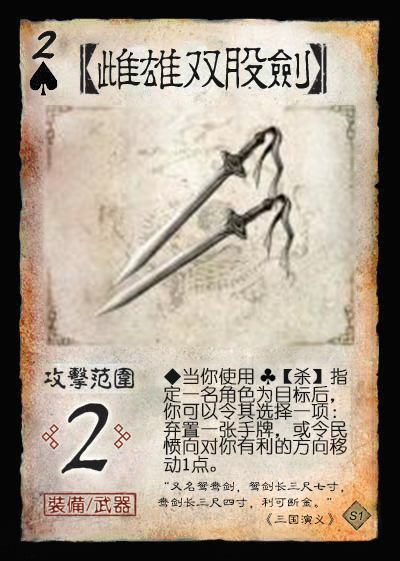
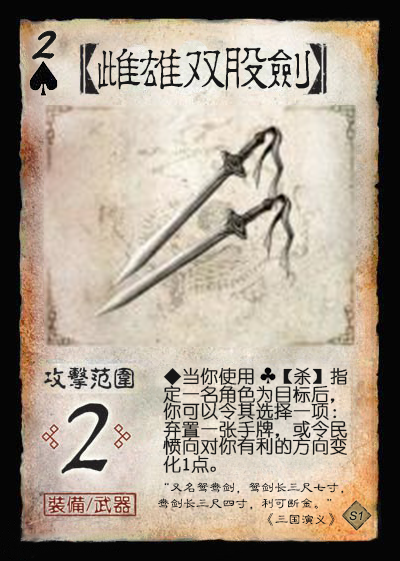
Complete scene1.

diff --git a/SanGuoSha/SGS-RebirthProject/scenes/scene1.md b/SanGuoSha/SGS-RebirthProject/scenes/scene1.md
@@ -7,7 +7,6 @@
 ## 游戏规则
 
 1. 人数：6人
-    1. **TODO**：设计支持其他人数的更多模式
 2. 阵营划分
     1. **黄巾**与**汉廷**两大阵营对抗
 3. 游戏流程
@@ -36,9 +35,8 @@
         1. 每人分发四张起始手牌。
     5. 进行游戏
         1. 从*黄巾主帅*开始，按逆时针方向依次进行回合。黄巾主帅视为1号位玩家，1号位玩家的回合开始时视为新一轮的开始。
-        2. 每轮开始时，*1号位角色*进行**民愤判定**，根据结果增减民愤：♠=+2，♣=+1，♦=0，♥=-1。
-
-            > TODO：民愤增减效果是否需要调整以保持平衡性？
+        2. 每轮开始时，*1号位角色*进行**民愤判定**，根据结果增减民愤：♠=+2，♣=+1，♦=-1，♥=-2。
+            1. *注*：民愤判定发生在1号位角色的回合开始之前。
     6. 卡牌与技能的特殊规则
         1. **主帅技**：作为主帅时生效的技能，类似于身份模式的主公技。
         2. **重整技**：当一名角色处于重整状态时生效的技能。
@@ -80,7 +78,7 @@
         5. ![重整标记](../assets/images/scenes/scene1/标记-重整.png)
     8. 胜利条件
         1. **军事胜利**：当一个*回合*结束时，若一个阵营的所有角色均被击退，则另一阵营胜利。
-        2. **民愤胜利**：当一*轮*结束时，若民愤不小于X，则黄巾胜利；若民愤不大于-X，则汉廷胜利。
+        2. **民心胜利**：当一*轮*结束时，若民愤不小于X，则黄巾胜利；若民愤不大于-X，则汉廷胜利。
 
 ## 设计思路
 
@@ -90,9 +88,6 @@
 4. 阵营风格：
    1. 黄巾：判定、雷电伤害、【闪】相关技能等。
    2. 汉廷：拼点、火焰伤害、强制命中等。
-5. TODO：
-    1. 增加围攻与队列相关技能。
-    2. 增加更多可以调整民愤以及与民愤变化相关的技能。
 
 ## 游戏牌
 
@@ -131,7 +126,7 @@
     2. ♥：♥A【汉道永昌】-X民愤、♥2【闪】2→0民愤、♥3【五谷丰登】-1民愤、♥4【五谷丰登】-1民愤。
     3. ♣：♣A【民不聊生】+2民愤、♣5【杀】+1民愤、♣6【盗贼蜂起】+1民愤、♣9【酒】1→0民愤。
     4. ♦：♦A【大赦天下】-3民愤、♦J【闪】-1民愤、♦Q【桃】+1/-1民愤、♦K【无懈可击】-1民愤。
-    5. 总计16张，每个花色四张；除了A点有四张外，每个点数一张；黑色牌增加民愤，红色牌减少民愤。
+    5. 调整民愤能力的牌尽量按照对称性安排：总计16张，每个花色四张；除了A点有四张外，每个点数一张；黑色牌增加民愤，红色牌减少民愤。
 
 ### 游戏牌说明
 
@@ -146,42 +141,43 @@
 2. 民愤调整类别b：向0调整  
     该类卡牌在右上角以 X → 0 表示。当一名角色使用此牌时，其*可以*按照牌面显示的值X将民愤向0调整（至多调整至0，不能使民愤值变号）。在牌表中，这类牌也记作X → 0。
 
-    1. 例1：![民愤向0调整2](../assets/images/scenes/scene1/S1.1-H2-闪.png)
+    1. 例1：![民愤向0调整2](../assets/images/scenes/scene1/S1.1-H2-闪.png)（触发该民愤调整效果，可令民愤值从10变为8，或从-10变为-8，或从1变为0，或从-1变为0）
 
 3. 某阵营禁用卡牌  
     该类卡牌在右上角有相应的禁用标记，对应阵营的角色不能使用此牌（若此牌位于装备区，也不能将其移动到禁用阵营角色的装备区），但禁用阵营的角色可以打出、弃置或重铸此牌。
 
     1. 例1：![玉玺](../assets/images/scenes/scene1/S1.2-SA-玉玺.png)
     2. 例2：![太平要术](../assets/images/scenes/scene1/S1.3-SA-太平要术.png)
-4. ![汉道永昌](../assets/images/scenes/scene1/S1.3-HA-汉道永昌.png) 【汉道永昌】：锦囊，普通  
-    黄巾阵营禁用。  
-    出牌阶段，对所有有手牌的敌方角色使用。你用一张手牌与这些角色同时拼点，你每赢一次，民愤-1。
-5. ![黄天当立](../assets/images/scenes/scene1/S1.1-SA-黄天当立.png) 【黄天当立】：锦囊，普通  
-    汉廷阵营禁用。  
-    出牌阶段，对所有友方角色使用。每名目标角色依次进行一次民愤判定。
+4. ![黄天当立](../assets/images/scenes/scene1/S1.1-SA-黄天当立.png) 【黄天当立】：锦囊，普通  
+    *汉廷阵营禁用。*  
+    出牌阶段，对所有友方角色使用。每名目标角色依次进行一次民愤判定流程，且防止使民愤值减少的效果。
 
-    > “民愤判定”即每轮开始时执行的判定增减民愤过程，见上述游戏流程第5节。
+    > “民愤判定”即每轮开始时执行的判定增减民愤过程，见上述游戏流程第5节。  
+5. ![汉道永昌](../assets/images/scenes/scene1/S1.3-HA-汉道永昌.png) 【汉道永昌】：锦囊，普通  
+    *黄巾阵营禁用。*  
+    出牌阶段，对所有有手牌的敌方角色使用。你用一张手牌与这些角色同时拼点，你每赢一次，民愤-1。
 6. ![盗贼蜂起](../assets/images/scenes/scene1/S1.3-C6-盗贼蜂起.png) 【盗贼蜂起】：锦囊，普通  
     出牌阶段，对所有其他角色使用。每名目标角色弃置与其距离最小（你除外）的另一名角色区域内的一张牌。
 
-    > 微调：增加了弃置判定区牌的选项。
+    > 相比原版微调：增加了弃置判定区牌的选项。
 7. ![调虎离山](../assets/images/scenes/scene1/S1.3-HK-调虎离山.png) 【调虎离山】：锦囊，普通  
     出牌阶段，对一至两名其他角色使用。目标角色本回合移出游戏。你摸一张牌。
 
     > 引文：“待天以困之，用人以诱之，往蹇来返。” ——《三十六计》  
-    > 沿用国战版【调虎离山】效果，较为适用于明确划分阵营的对抗和阵法效果。
+    > 沿用国战版【调虎离山】效果，较为适用于明确划分阵营的对抗和阵法效果。  
+    > 注：【调虎离山】即使被【无懈可击】响应，仍然可以执行“你摸一张牌”的效果。  
 8. ![一鼓作气](../assets/images/scenes/scene1/S1.2-S10-一鼓作气.png) 【一鼓作气】：锦囊，延时  
     出牌阶段，对你使用。将【一鼓作气】置于你的判定区，若判定结果为♣2~9，则保留此牌；若你的判定区内有【一鼓作气】，一名友方角色使用【杀】指定目标后，可令目标选择一项：弃置一张手牌，或令你摸一张牌。
 
     > 引文：“一鼓作气，再而衰，三而竭。” ——《左传·庄公十年》  
-    > 一个团队进攻buff。若判定结果为♣2~9，即可一直拥有该buff。  
+    > 一个大约持续一轮的团队进攻buff。若判定结果为♣2~9，即可一直拥有该buff。  
 9. ![鸣金收兵](../assets/images/scenes/scene1/S1.3-HQ-鸣金收兵.png) 【鸣金收兵】：锦囊，延时  
     出牌阶段，对你使用。将【鸣金收兵】置于你的判定区，若判定结果为♥2~9，则保留此牌；若你的判定区内有【鸣金收兵】，一名友方角色受到♠牌的伤害时，可防止此伤害。
 
     > 引文：“闻鼓声而进，闻金声而退。” ——《荀子·议兵》  
-    > 一个团队防御buff。若判定结果为♥2~9，即可一直拥有该buff。  
+    > 一个大约持续一轮的团队防御buff。若判定结果为♥2~9，即可一直拥有该buff。  
 10. ![雌雄双股剑](../assets/images/scenes/scene1/S1.2-S2-雌雄双股剑.png) 【雌雄双股剑】：装备，武器 攻击范围：2  
-    当你使用♣【杀】指定一名角色为目标后，你可以令其选择一项：弃置一张手牌，或令民愤向对你有利的方向移动1点。
+    当你使用♣【杀】指定一名角色为目标后，你可以令其选择一项：弃置一张手牌，或令民愤向对你有利的方向变化1点。
 
     > 修改了【雌雄双股剑】，设计了与新机制相关的新效果。
 11. ![黄头巾](../assets/images/scenes/scene1/S1.3-S2-黄头巾.png) 【黄头巾】：装备，防具  
@@ -191,7 +187,7 @@
 
     > 重做【黄头巾】效果，适应新机制。
 12. ![玉玺](../assets/images/scenes/scene1/S1.2-SA-玉玺.png) 【玉玺】：装备，宝物  
-    黄巾阵营禁用。  
+    *黄巾阵营禁用。*  
     **锁定技**，你的手牌上限+2；你视为拥有本方主帅的主帅技；结束阶段，你令民愤-1。  
 
 13. ![太平要术](../assets/images/scenes/scene1/S1.3-SA-太平要术.png) 【太平要术】：装备，宝物  
@@ -216,78 +212,100 @@
     3. 【蚁附】：**主帅技**，其他友方角色的出牌阶段限一次，该角色可以用一张黑色手牌替换一张“咒”。
 
     > 【影兵】中的“其”指使用牌的角色。  
+    > 修改“咒”的效果，加入新的民愤机制。
 3. ![张梁](../assets/images/scenes/scene1/S1.HJ003-张梁.jpg) S1.HJ003 张梁 男 黄 4体力 称号：人公将军
     1. 【方统】：一名角色的判定牌生效后，你可以弃置一张手牌，然后根据此牌的颜色执行如下效果：黑色，该角色失去1点体力；红色，该角色回复1点体力。
-    2. 【集军】：**主帅技**，**重整技**，其他友方角色的出牌阶段限一次，该角色可以失去1点体力，令你获得一个重整标记。
+    2. 【集军】：**主帅技**，**重整技**，其他友方角色的准备阶段，其可以判定，若点数为36的约数，你获得一个重整标记。
+
+    > 增加主帅技【集军】，反映张梁集合“三十六方”的典故。  
 4. ![张燕](../assets/images/scenes/scene1/S1.HJ004-张燕.jpg) S1.HJ004 张燕 男 黄 4体力 称号：黑山的飞燕
-    1. 【捷速】：准备阶段/结束阶段，若你的手牌数小于手牌上限，你可以进行判定，若结果为黑色，你视为对一名其他角色使用一张无距离限制的雷【杀】。
+    1. 【捷速】：准备阶段/结束阶段，若你的手牌数小于手牌上限，你可以判定，若结果为黑色，你视为对一名其他角色使用一张无距离限制的雷【杀】。
+
+    > 无改动。  
 5. ![黄巾雷使](../assets/images/scenes/scene1/S1.HJ005-黄巾雷使.jpg) S1.HJ005 黄巾雷使 女 黄 3体力 称号：雷祭之姝
     1. 【黄巾】：**锁定技**，若你的装备区里没有防具牌和宝物牌，你视为装备着【黄头巾】。
     2. 【符篆】：准备阶段，你可以将一张黑色普通锦囊牌当【黄巾雷符】使用。
-    3. 【助祭】：当一名其他友方角色造成雷电伤害时，你可以令其进行判定，若结果为：黑色，该角色获得此牌；红色，你获得此牌。
+    3. 【助祭】：当一名其他友方角色造成雷电伤害时，你可以令其判定，若结果为：黑色，该角色获得此牌；红色，你获得此牌。
 
-    > 【黄巾】技能相比原版加强，因此修改其他技能，以平衡强度。
+    > 【黄巾】技能相比原版加强，因此修改其他技能，以平衡强度。  
 6. ![张曼成](../assets/images/scenes/scene1/S1.HJ006-张曼成.jpg) S1.HJ006 张曼成 男 黄 4体力 称号：南阳渠帅
     1. 【蜂集】：每轮限一次，一名敌方角色的准备阶段，你可以令所有友方角色各摸一张牌。若如此做，本回合友方角色受到伤害后，该角色弃置两张牌。
 7. ![马元义](../assets/images/scenes/scene1/S1.HJ007-马元义.jpg) S1.HJ007 马元义 男 黄 4体力 称号：血动黄幡
     1. 【符佑】：一名友方角色的判定牌生效后，若该角色为你或与你处于同一队列，你可以令民愤+1。
     2. 【合乱】：**限定技**，出牌阶段，你可以依次指定每名其他角色的一个有牌的区域，该角色将该区域内的一张牌展示并交给你。若此牌为红色牌，其对你造成1点火焰伤害，然后你进行一次民愤判定。
+
+    > 【合乱】体现马元义招引众教徒起事的场景：交出黑色牌表示参与起义，交出红色牌而使马元义受到伤害表现其因叛徒告密而被杀，而之后的民愤判定与【符佑】联动，体现马元义的被杀加速了起义的进程。  
 8. ![波才](../assets/images/scenes/scene1/S1.HJ008-波才.jpg) S1.HJ008 波才 男 黄 4体力 称号：黄巾先锋
     1. 【众围】：出牌阶段限一次，你可以横置任意名未横置的友方角色，令一名敌方角色选择一项：摸X张牌并翻面，或弃置任意张点数和不小于2Y的牌（X为你以此法横置的角色数，Y为你以此法横置的角色体力值之和）。
 
     > 以横置多名友方角色（易受属性伤害）以逼迫一名敌人弃牌或翻面，体现“波才引大众围城，被皇甫嵩以火攻击破”，思路类似满宠【峻刑】。
-9. ![程远志](../assets/images/scenes/scene1/S1.HJ009-程远志.jpg) S1.HJ009 程远志 男 黄 4体力 称号：TODO
+9. ![程远志](../assets/images/scenes/scene1/S1.HJ009-程远志.jpg) S1.HJ009 程远志 男 黄 4体力 称号：河北军首
     1. 【首袭】：每回合限一次，判定/摸牌/出牌/弃牌阶段，你可以改为将一张基本牌当【决斗】使用。若你受到了此牌的伤害，你摸一张牌，且本局游戏中你不能再在此阶段发动该技能。
 
     > 【首袭】开局爆发较猛，但后期不足，体现程远志声势浩大，但被迅速斩杀；且该技能被关羽克制。
-10. ![严政](./assets/images/scenes/scene1/S1.HJ010-严政.jpg) S1.HJ010 严政 男 黄 4体力 称号：TODO
-    1. 【困守】：每名敌方角色的回合限一次，一名友方角色可以将所有手牌当【闪】使用或打出。若以此法转化了三张或更多的牌，其摸一张牌。
+10. ![严政](./assets/images/scenes/scene1/S1.HJ010-严政.jpg) S1.HJ010 严政 男 黄 4体力 称号：卖主求存
+    1. 【困守】：每名敌方角色的回合限一次，一名友方角色可以将至少两张手牌当【闪】使用或打出。若其以此法转化了所有手牌，其摸一张牌。
     2. 【献城】：**锁定技**，当一名其他角色被击退时，你选择一项：将你和该角色装备区中的所有牌交给体力值最多的一名角色；或失去1点体力。
     
-    > 【献城】技能在友方角色被击退时有通敌属性。
+    > 【献城】技能在友方角色被击退时有通敌属性，体现严政在被围困的情况下杀张宝献城投降的事迹。  
 
 ### 汉廷专属武将
 
 1. ![刘宏](../assets/images/scenes/scene1/S1.HAN001-刘宏.jpg) S1.HAN001 刘宏 男 汉 5体力 称号：汉灵帝
     1. 【鬻爵】：其他角色的出牌阶段限一次，该角色可以展示并交给你一张牌。若此牌为：黑色，其弃置场上的一张牌；红色，其摸一张牌。
     2. 【党锢】：**锁定技**，摸牌阶段，你少摸一张牌，然后令所有手牌数大于你的其他角色依次选择一项：交给你一张牌，或本回合所有非锁定技失效。
-    3. 【天威】：**主帅技**，准备阶段，你可以弃置一张牌，弃置一名友方角色判定区内的一张牌。
+    3. 【天威】：**主帅技**，准备阶段，你可以弃置两张牌，弃置一名友方角色判定区内的一张牌。
+
+    > 考虑到延时锦囊牌的比例上升，以及主帅技发挥效果的概率增加，对【天威】进行削弱。  
 2. ![皇甫嵩](../assets/images/scenes/scene1/S1.HAN002-皇甫嵩.jpg) S1.HAN002 皇甫嵩 男 汉 4体力 称号：志定雪霜
     1. 【奋钺】：出牌阶段限一次，你可以与一名角色拼点，若你赢，根据你拼点的牌的点数依次执行以下效果：小于等于5：获得其一张牌；小于等于9：摸一张牌；小于等于K：视为对其使用一张火【杀】。若你没赢，你本阶段不能使用【杀】。
-    2. 【舍身】：**主帅技**，你于本局对战中首次被击退时，可令一名友方角色回复1点体力并摸三张牌。
+    2. 【舍身】：**主帅技**，本局对战中你首次被击退时，可令一名友方角色回复1点体力并摸两张牌。
 
-    > 基于身份皇甫嵩稍作调整，增加了【杀】的属性，与场景契合。
-    > TODO：修改武将牌描述
+    > 基于身份皇甫嵩稍作调整，增加了【杀】的属性，与场景契合。  
 3. ![朱儁](../assets/images/scenes/scene1/S1.HAN003-朱儁.jpg) S1.HAN003 朱儁 男 汉 4体力 称号：征无遗虑
     1. 【严整】：出牌阶段限一次，你可以选择一项：将一张黑色基本牌当【一鼓作气】使用；或将一张红色基本牌当【鸣金收兵】使用。
     2. 【攻坚】：**主帅技**，当一名友方角色使用【杀】结算后，若此【杀】未造成伤害，你可以将你装备区或判定区内的一张红色牌当火【杀】对同一目标角色使用。
+
+    > 通过转换两个本模式新延时锦囊的能力，主动控制队伍攻守节奏，体现大将之风。  
 4. ![卢植](../assets/images/scenes/scene1/S1.HAN004-卢植.jpg) S1.HAN004 卢植 男 汉 3体力 称号：国之桢干
     1. 【明任】：每轮限一次，当一名角色回复体力或造成伤害后，你可以获得与该角色距离为1的另一名角色的一张牌，然后交给一名角色。
     2. 【儒宗】：当你使用♠牌指定目标后，你可以弃置一张牌，令此牌不可被响应；当你成为♠牌的目标时，你可以弃置一张牌，令此牌对你无效。
+
+    > 无改动。  
 5. ![张让](../assets/images/scenes/scene1/S1.HAN005-张让.jpg) S1.HAN005 张让 男 汉 3体力 称号：窃幸绝禋
     1. 【潜听】：一名其他角色的摸牌阶段开始时，你可以观看牌堆顶的两张牌。若如此做，本回合内，该角色与你的距离视为1。
     2. 【滔乱】：出牌阶段限两次，你可以声明一种花色，然后令一名其他角色选择是否交给你一张该花色的基本牌或普通锦囊牌。若其选择是，你视为使用此牌，且不计入使用次数。
-6. ![董卓](../assets/images/scenes/scene1/S1.HAN006-董卓.jpg) S1.HAN006 董卓 男 汉 4体力 称号：西凉鬼豪
-    1. 【宴豪】：一名角色的准备阶段，你可以弃置一张牌，令该角色选择一项：本回合内计算与其他角色的距离-1；弃置一张相同花色的牌，视为使用了一张【酒】；弃置一张相同类别的牌，摸两张牌，然后其可以将至多两张手牌交给你。
 
-    > 【宴豪】取董卓杀耕牛与羌中豪帅相宴乐的典故。前两个效果分别对应西凉和董卓的特色。
+    > 无改动。  
+6. ![董卓](../assets/images/scenes/scene1/S1.HAN006-董卓.jpg) S1.HAN006 董卓 男 汉 4体力 称号：西凉鬼豪
+    1. 【宴豪】：一名角色的准备阶段，你可以弃置一张牌，令该角色选择一项：本回合攻击范围+2；弃置一张相同颜色的牌，视为使用了一张【酒】；弃置一张相同类别的牌，摸两张牌，然后其可以将至多两张手牌交给你。
+
+    > 【宴豪】取董卓杀耕牛与羌中豪帅相宴乐的典故。前两个效果分别对应西凉军和董卓的特色。
 7. ![曹操](../assets/images/scenes/scene1/S1.HAN007-曹操.jpg) S1.HAN007 曹操 男 汉 4体力 称号：崭露头角
-    1. 【令法】：**锁定技**，游戏开始时，你将一张牌置于你的武将牌上，称为“令”；出牌阶段限一次，你可以用一张牌替换一张“令”；一名角色使用与“令”同名的牌时，需弃置一张手牌，否则此牌无效。一名友方角色的回合结束时，若其本回合未使用过与“令”同名的牌，则民愤-1，否则民愤+1。
+    1. 【令法】：游戏开始时，你将一张牌置于你的武将牌上，称为“令”；出牌阶段限一次，你可以用一张牌替换一张“令”；一名角色使用与“令”同名的牌时，需弃置一张手牌，否则此牌无效。一名友方角色的回合结束时，若其本回合未使用过与“令”同名的牌，则民愤-1，否则民愤+1。
 8. ![刘焉](../assets/images/scenes/scene1/S1.HAN008-刘焉.jpg) S1.HAN008 刘焉 男 汉 3体力 称号：裂土之宗
     1. 【图射】：若你的手牌数为全场最多，你使用【杀】或普通锦囊牌可额外指定一个目标。
-    2. 【立牧】：出牌阶段限一次，你可以翻面并摸一张牌，若如此做，跳过本回合的弃牌阶段；当民愤增加时，若你的武将牌背面朝上，你可以选择一项：摸一张牌，或弃置一张牌令此次民愤值变化量-1。
+    2. 【立牧】：出牌阶段限一次，你可以翻面并摸一张牌，若如此做，跳过本回合的弃牌阶段；当民愤增加时，若你的武将牌背面朝上，你可以选择一项：摸一张牌，或弃置一张牌令此次民愤变化量-1。
+
+    > 基于官方刘表的思路重做技能：【立牧】体现刘焉在出镇一方（翻面并跳过弃牌阶段）的情况下，可以选择为己谋利（摸牌）或安定天下（弃牌减民愤）；【图射】表现刘焉积攒实力后主动出击，从机制上鼓励玩家在【立牧】中选择摸牌，符合刘焉人设。  
 9. ![刘备](../assets/images/scenes/scene1/S1.HAN009-刘备.jpg) S1.HAN009 刘备 男 汉 4体力 称号：汉嗣仁裔
     1. 【仁德】：出牌阶段，你可以将任意张手牌交给其他角色，然后若你于此阶段内给出第二张“仁德”牌时，你选择一项：回复1点体力，或令民愤-2。
-10. ![封谞](../assets/images/scenes/scene1/S1.HAN010-封谞.jpg) S1.HAN010 封谞 男 汉 3体力 称号：TODO
-    1. TODO：汉廷阵营中，给封谞设计优势下通敌属性
+
+    > 基于身份刘备稍作调整，增加了减民愤的选项。  
+10. ![封谞](../assets/images/scenes/scene1/S1.HAN010-封谞.jpg) S1.HAN010 封谞 男 汉 3体力 称号：中常侍
+    1. 【索赂】：出牌阶段限一次，你可以弃置一张牌，令一名其他角色判定，然后其选择一项：交给你一张与判定牌花色相同的牌，或令你获得其一张牌。
+    2. 【宦势】：出牌阶段限一次，当你获得牌后，你可以将这些牌交给一名体力比你多的角色，获得其武将牌上的一个技能（限定技、主帅技除外），直到本阶段结束。若该角色为本方主帅，改为直到你的下回合开始。
+
+    > 【索赂】会造成判定，有被黄巾势力中的判定系武将利用而资敌的可能性，暗示封谞与黄巾的暗中勾结。  
+    > 说明：“谞”字在字库中没有，暂时使用“胥”字代替。
 
 ### 公共武将
   
 1. ![廖化](../assets/images/scenes/scene1/S1.QUN001-廖化.jpg) S1.QUN001 廖化 男 群 4体力 称号：啸聚山林
-    1. 【当先】：**锁定技**，你登场后，执行一个额外的回合；你重整时，每轮额外获得一个重整标记。
+    1. 【当先】：**锁定技**，游戏开始时和你重整完成后，你执行一个额外的回合；你重整时，每轮额外获得一个重整标记。
     2. 【寇抄】：结束阶段，你可以获得至多两名其他角色区域内的各一张牌，然后失去等量的体力。
 
-    > 【当先】执行额外回合的时机包括游戏开始时和重整完成后，即廖化在游戏开始时执行一个额外的回合，且重整完成后立即执行其回合。  
+    > 【当先】执行额外回合的时机包括游戏开始时和重整完成后，即廖化在游戏开始时（第一轮的民愤判定开始前）执行一个额外的回合，且重整完成回到场上后立即执行其回合。  
     > 该技能组是对重整机制的一个设计尝试。
 2. ![公孙瓒](../assets/images/scenes/scene1/S1.QUN002-公孙瓒.jpg) S1.QUN002 公孙瓒 男 群 4体力 称号：威震塞外
     1. 【疏犷】：你使用【杀】指定一名敌方角色为唯一目标后，可指定任意名与该角色同一队列的其他角色为额外目标。
@@ -299,57 +317,88 @@
     2. 【雄异】：**限定技**，出牌阶段，你可以令所有友方角色各摸两张牌，所有被击退的友方角色获得一个重整标记，然后你可以变更此武将。
 
     > 该技能组是对变更武将效果的一个设计尝试。
-4. ![韩遂](../assets/images/scenes/scene1/S1.QUN004-韩遂.jpg) S1.QUN004 韩遂 男 群 4体力 称号：TODO
+4. ![韩遂](../assets/images/scenes/scene1/S1.QUN004-韩遂.jpg) S1.QUN004 韩遂 男 群 4体力 称号：雄踞北疆
     1. 【马术】：**锁定技**，你计算与其他角色的距离-1。
     2. 【逆乱】：一名其他角色的结束阶段，若本回合民愤发生过变化，或其于本回合内对你使用过【杀】，你可以将一张黑色牌当【杀】对其使用。
+
+    > 基于官方韩遂进行微调，符合模式特色。  
 5. ![关羽](../assets/images/scenes/scene1/S1.QUN005-关羽.jpg) S1.QUN005 关羽 男 群 4体力 称号：美髯公
     1. 【武圣】：若你的体力值大于0，你可以将一张红色牌当【酒】或无距离限制且无视防具的【杀】使用或打出。
+
+    > 无改动。  
 6. ![张飞](../assets/images/scenes/scene1/S1.QUN006-张飞.jpg) S1.QUN006 张飞 男 群 4体力 称号：万夫不当
-    1. 【咆哮】：**锁定技**，你使用【杀】无次数限制；当你于出牌阶段使用的第二张【杀】结算完成后，你摸一张牌。
+    1. 【咆哮】：**锁定技**，你使用【杀】无次数限制；当你于出牌阶段使用的第二张【杀】结算后，你摸一张牌。
+
+    > 无改动。  
 7. ![赵云](../assets/images/scenes/scene1/S1.QUN007-赵云.jpg) S1.QUN007 赵云 男 群 4体力 称号：少年将军
-    1. 【龙胆】：你可以将一张【杀】/【闪】当【闪】/【杀】使用或打出。
-    2. 【救主】：当一名其他友方角色于其回合外需要使用或打出一张【杀】/【闪】时，你可以打出一张【杀】/【闪】，然后视为该角色使用或打出了一张【杀】/【闪】。
+    1. 【龙胆】：你可以将一张【杀】/【闪】当【闪】/【杀】使用或打出，然后令一名手牌数或体力值小于你的角色摸一张牌。
+
+    > 基于身份赵云进行微调，去掉了询问量过大且事迹不甚符合本模式的【救主】，替换为较为直接的给队友补牌。  
 8. ![张鲁](../assets/images/scenes/scene1/S1.QUN008-张鲁.jpg) S1.QUN008 张鲁 男 群 3体力 称号：政宽教惠
     1. 【义舍】：结束阶段，若你没有“米”，你可以摸两张牌，然后将两张牌置于武将牌上，称为“米”；当你移去最后一张“米”时，你回复1点体力。
     2. 【布施】：当你受到伤害后，你可以获得一张“米”；当你对其他角色造成伤害后，其可以获得一张“米”。
     3. 【米道】：当一张判定牌生效前，你可以打出一张“米”代替之。
 
+    > 基于官方张鲁微调。  
     > 中立改判武将。  
-    > 需要测试强度是否超标。
+    > 需要测试强度是否超标。  
 9. ![曹洪](../assets/images/scenes/scene1/S1.QUN009-曹洪.jpg) S1.QUN009 曹洪 男 群 4体力 称号：福将
-    1. 【援护】：结束阶段，你可以将一张装备牌置于一名角色的装备区里，然后你可以弃置该角色距离为1的一名角色的一张牌。
-    2. 【鹤翼】：**锁定技**，对方角色计算与你处于同一队列的其他角色的距离+1。
+    1. 【援护】：结束阶段，你可以将一张装备牌置于一名角色的装备区里，然后你可以弃置该角色距离为1的一名角色的一张牌。若此牌与你置入的牌花色相同，你获得之。
+
+    > 基于官方国战版曹洪微调，并增加了获得牌的选项，以提升持续发动的能力。  
 10. ![孙坚](../assets/images/scenes/scene1/S1.QUN010-孙坚.jpg) S1.QUN010 孙坚 男 群 4体力 称号：武烈帝
     1. 【破军】：当你于出牌阶段内使用【杀】指定一个目标后，你可以将其至多X张牌扣置于该角色的武将牌旁（X为其体力值）。若如此做，当前回合结束后，该角色获得这些牌。
+
+    > 无改动。  
 11. ![甘宁](../assets/images/scenes/scene1/S1.QUN011-甘宁.jpg) S1.QUN011 甘宁 男 群 4体力 称号：锦帆游侠
     1. 【奇袭】：你可以将一张黑色牌当【过河拆桥】使用。
     2. 【奋威】：**限定技**，当锦囊牌指定至少两个目标后，你可令此牌对任意名目标角色无效。
+
+    > 无改动。  
 12. ![祖茂](../assets/images/scenes/scene1/S1.QUN012-祖茂.jpg) S1.QUN012 祖茂 男 群 4体力 称号：碧血染赤帻
     1. 【引兵】：一名角色的准备阶段，你可以将两张花色相同的牌当【调虎离山】对一名非当前回合角色使用（该角色和当前回合角色可将一张同花色的牌当【无懈可击】响应此牌）。若此【调虎离山】被抵消，该技能本轮失效。
     2. 【绝地】：当你于回合外失去手牌后，若你没有手牌，你可以令一名其他友方角色回复1点体力。
+
+    > 基于模式特点，增加转化【调虎离山】和保核的能力，主要思路是在敌人的回合调走本方核心，或在自己回合使用【调虎离山】实现控制距离、改变队列/围攻关系、阻止求桃等。  
 13. ![袁绍](../assets/images/scenes/scene1/S1.QUN013-袁绍.jpg) S1.QUN013 袁绍 男 群 4体力 称号：高贵的名门
+    1. 【乱击】：出牌阶段限一次，你可以将两张相同颜色的手牌当【万箭齐发】使用。你使用【万箭齐发】可以少指定一个目标。
+
+    > 基于身份袁绍微调，限制次数，增加减少目标的能力。  
 14. ![何进](../assets/images/scenes/scene1/S1.QUN014-何进.jpg) S1.QUN014 何进 男 群 4体力 称号：色厉内荏
     1. 【谋诛】：出牌阶段限一次，你可令一名其他角色交给你一张手牌，然后若其手牌比你少，则其选择一项：视为对你使用一张【杀】；或视为对你使用一张【决斗】。
     2. 【延祸】：你被击退时，你可以依次弃置每名敌方角色的各一张牌。
+
+    > 基于身份何进微调。  
 15. ![何太后](../assets/images/scenes/scene1/S1.QUN015-何太后.jpg) S1.QUN015 何太后 女 群 3体力 称号：弄权之蛇蝎
     1. 【鸩毒】：其他角色的出牌阶段开始时，你可以弃置一张手牌，令该角色视为使用一张【酒】，然后你对其造成1点伤害。
     2. 【戚乱】：一名角色回合结束时，若本回合有角色被击退，你摸一张牌（若本回合有角色被你击退，改为摸三张牌）。
+
+    > 基于官方何太后微调。  
 16. ![吕布](../assets/images/scenes/scene1/S1.QUN016-吕布.jpg) S1.QUN016 吕布 男 群 4体力 称号：武的化身
     1. 【无双】：**锁定技**，你使用的【杀】需两张【闪】才能抵消；与你进行【决斗】的角色每次需打出两张【杀】。
     2. 【据关】：**限定技**，出牌阶段，你可以选择至多三名其他角色，你视为对这些角色依次使用一张【决斗】。
+
+    > 无改动。  
 17. ![貂蝉](../assets/images/scenes/scene1/S1.QUN017-貂蝉.jpg) S1.QUN017 貂蝉 女 群 3体力 称号：绝世的舞姬
     1. 【离间】：出牌阶段限一次，你可以弃置一张牌并选择两名男性角色，然后令其中一名角色视为对另一名角色使用一张【决斗】。
     2. 【闭月】：结束阶段，你可以摸一张牌。
+
+    > 无改动。  
 18. ![孔融](../assets/images/scenes/scene1/S1.QUN018-孔融.jpg) S1.QUN018 孔融 男 群 3体力 称号：凛然重义
-    1. 【名士】：TODO：改动民愤？
-    2. 【礼让】：出牌阶段，你可以将一张♥牌交给一名其他角色；当你以此法交出【桃】后，可以摸一张牌。
+    1. 【名士】：当你受到伤害时，你可以弃置一张牌，令来源选择一项：此伤害-1，或令民愤向对你有利的方向变化2点。
+    2. 【礼让】：当你于回合外失去的牌或于回合内因弃置而失去的牌置入弃牌堆后，你可以将其中至少一张牌交给其他角色。
+
+    > 基于官方国战孔融微调，增加控制民愤的卖血方式。  
 19. ![糜竺](../assets/images/scenes/scene1/S1.QUN019-糜竺.jpg) S1.QUN019 糜竺 男 群 3体力 称号：挥金追义
     1. 【资援】：出牌阶段限一次，你可以将任意张点数之和为13的手牌交给一名其他角色，然后该角色回复1点体力。
-    2. 【巨贾】：锁定技，你的手牌上限+X；游戏开始时，你多摸X张牌（X为你的体力上限）。
+    2. 【巨贾】：**锁定技**，你的手牌上限+X；游戏开始时，你多摸X张牌（X为你的体力上限）。
+
+    > 无改动。  
 20. ![诸葛瑾](../assets/images/scenes/scene1/S1.QUN020-诸葛瑾.jpg) S1.QUN020 诸葛瑾 男 群 3体力 称号：敦仁弘雅
     1. 【缓释】：友方角色的判定牌亮出前，你可以观看牌堆顶的三张牌，然后以任意顺序置于牌堆顶。
     2. 【弘援】：摸牌阶段，你可以少摸一张牌，然后令其他友方角色各摸一张牌。
     3. 【明哲】：你的回合外，当你使用或打出一张红色牌时，或因弃置而失去一张红色牌后，你可以摸一张牌。
 
-    > 沿用经典3V3模式中的诸葛瑾，仅对【缓释】稍作修改，符合诸葛氏控制牌堆顶的风格。  
+    > 基于经典3V3模式中的诸葛瑾，仅对【缓释】稍作修改，符合诸葛氏控制牌堆顶的风格。  
+    > 中立改判武将。  
     > 称号来源：分别截取自《三国志》中虞翻的评价“诸葛敦仁，则天活物，比蒙清论，有以保分。”和陈寿的评价“瑾为人有容貌思度，于时服其弘雅。”  
